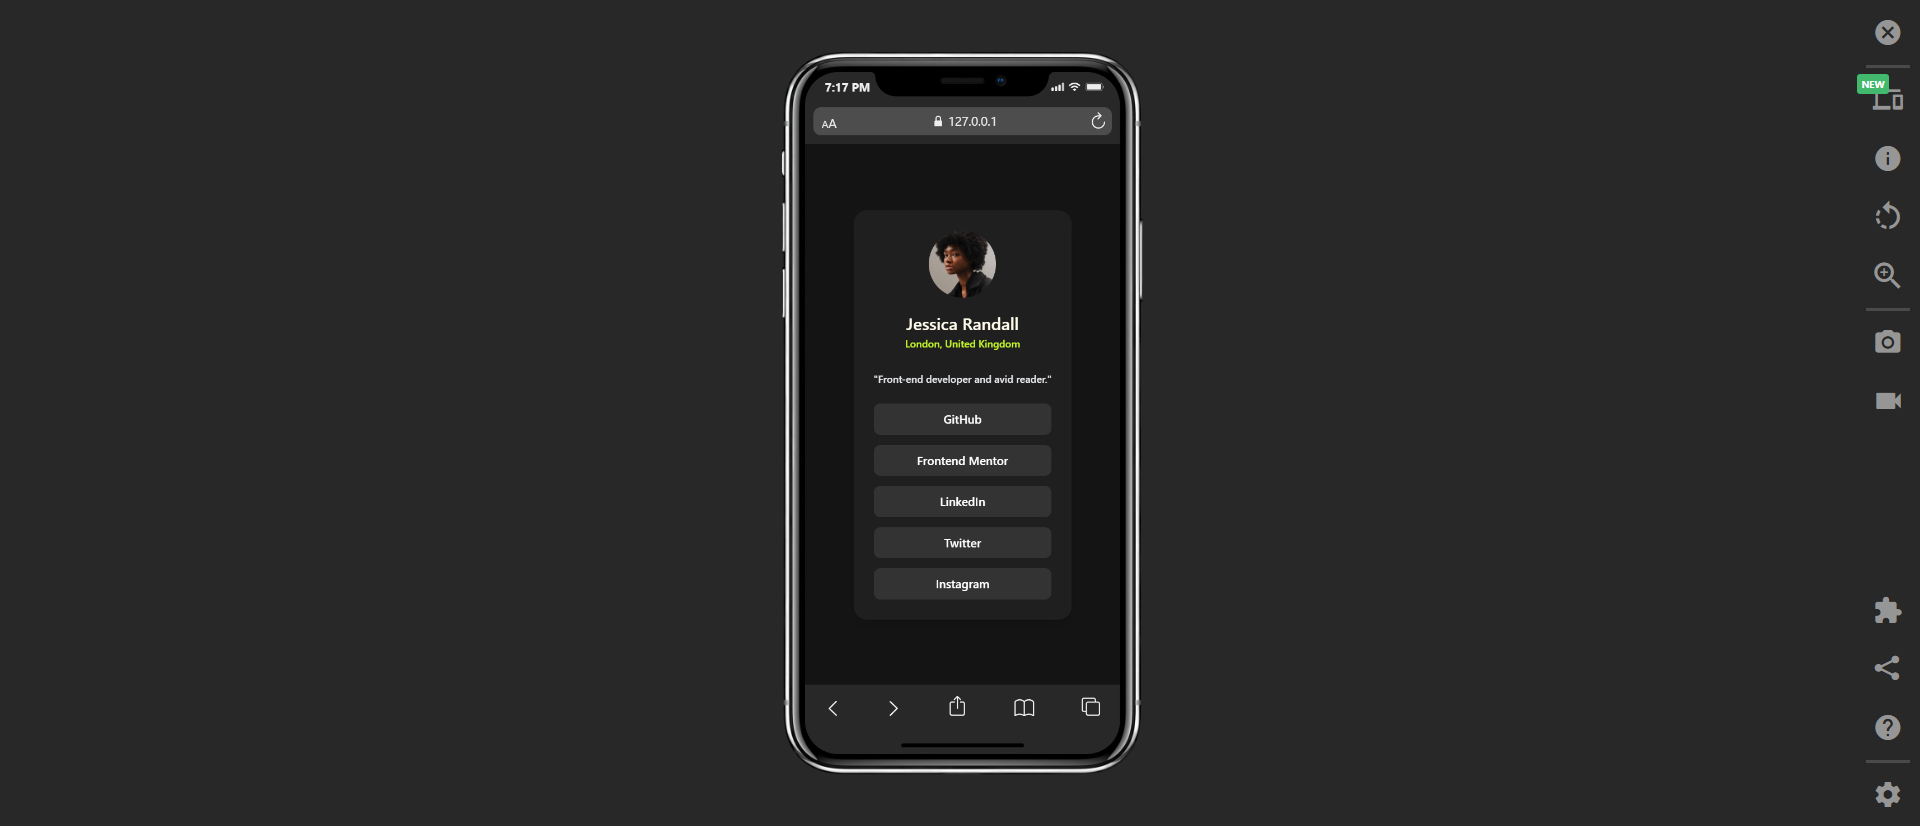
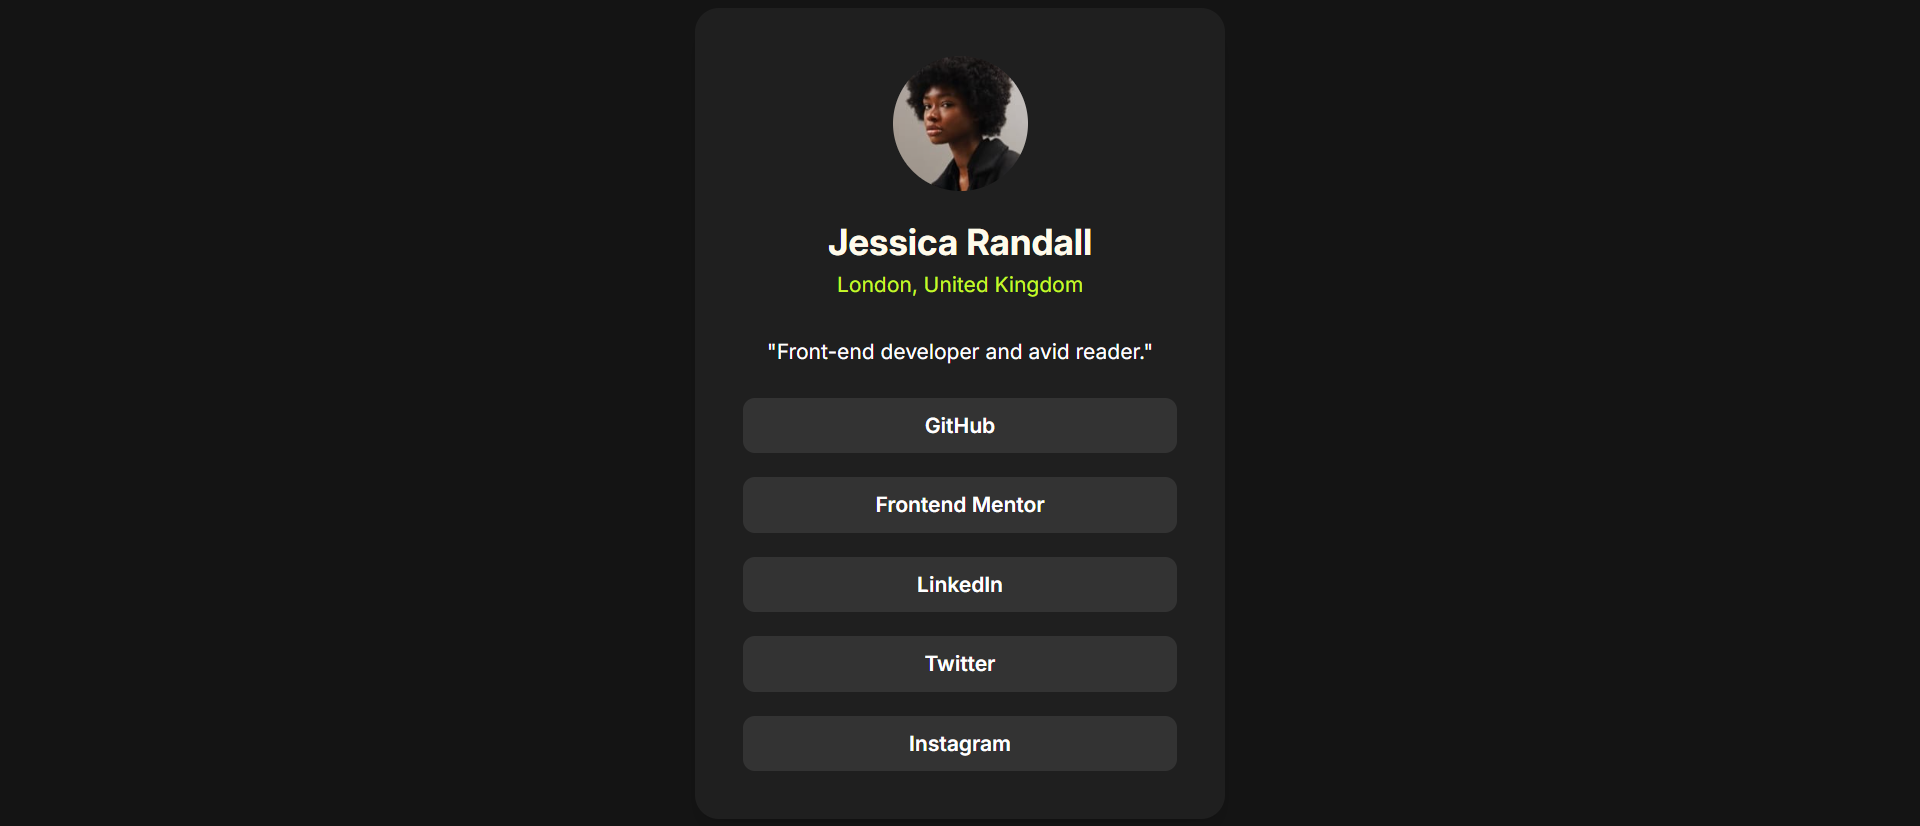
change space

diff --git a/src/output.css b/src/output.css
@@ -8,7 +8,6 @@
     --font-mono: ui-monospace, SFMono-Regular, Menlo, Monaco, Consolas, "Liberation Mono",
       "Courier New", monospace;
     --color-amber-50: oklch(98.7% 0.022 95.277);
-    --color-gray-200: oklch(92.8% 0.006 264.531);
     --color-black: #000;
     --color-white: #fff;
     --spacing: 0.25rem;
@@ -261,7 +260,7 @@
   .profile {
     margin-inline: auto;
     width: 100%;
-    max-width: 400px;
+    max-width: 380px;
     border-radius: var(--radius-2xl);
     background-color: var(--color-grey-8);
     padding: calc(var(--spacing) * 6);
@@ -287,8 +286,8 @@
   }
   .profile-bio {
     margin-bottom: calc(var(--spacing) * 5);
-    font-size: clamp(0.75rem, 1vw + 0.25rem, 0.875rem);
-    color: var(--color-gray-200);
+    padding-inline: calc(var(--spacing) * 4);
+    font-size: 14px;
   }
   .social-links {
     :where(& > :not(:last-child)) {

diff --git a/src/input.css b/src/input.css
@@ -32,7 +32,7 @@ a {
 
 @layer components {
   .profile {
-    @apply w-full max-w-[400px] mx-auto bg-grey-8  p-6 md:p-8 rounded-2xl shadow-lg;
+    @apply w-full max-w-[380px] mx-auto bg-grey-8  p-6 md:p-8 rounded-2xl shadow-lg;
   }
 
   .profile-img {
@@ -44,7 +44,7 @@ a {
   }
 
   .profile-bio {
-    @apply text-gray-200 mb-5 text-[clamp(0.75rem,1vw+0.25rem,0.875rem)];
+    @apply mb-5  text-[14px] px-4; 
   }
 
   .social-links {
